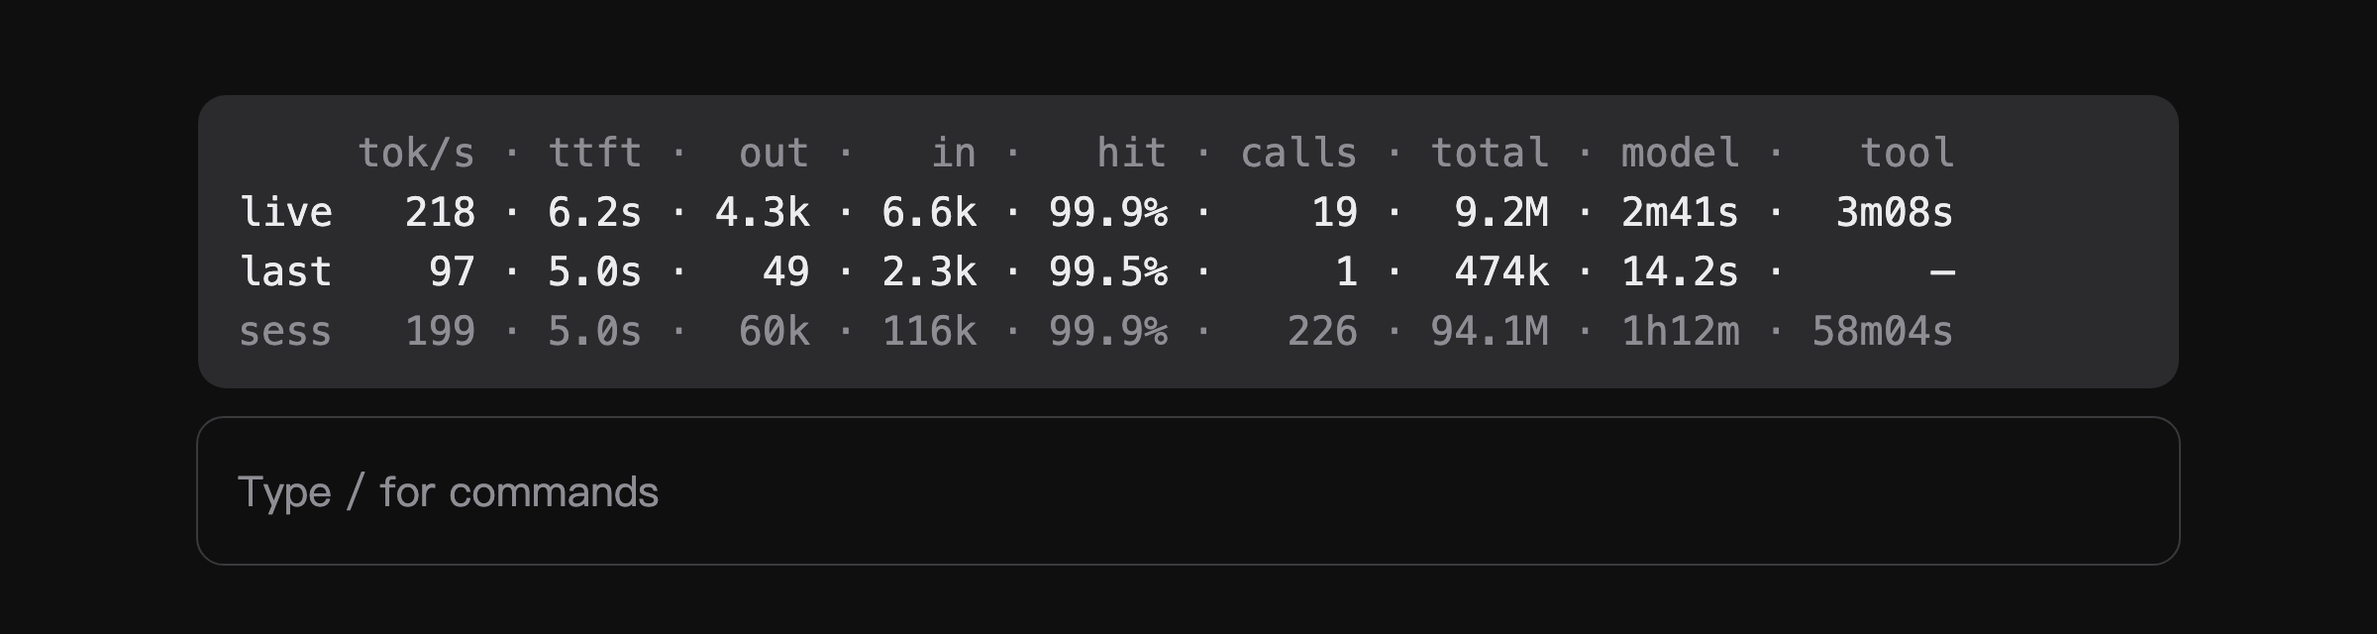
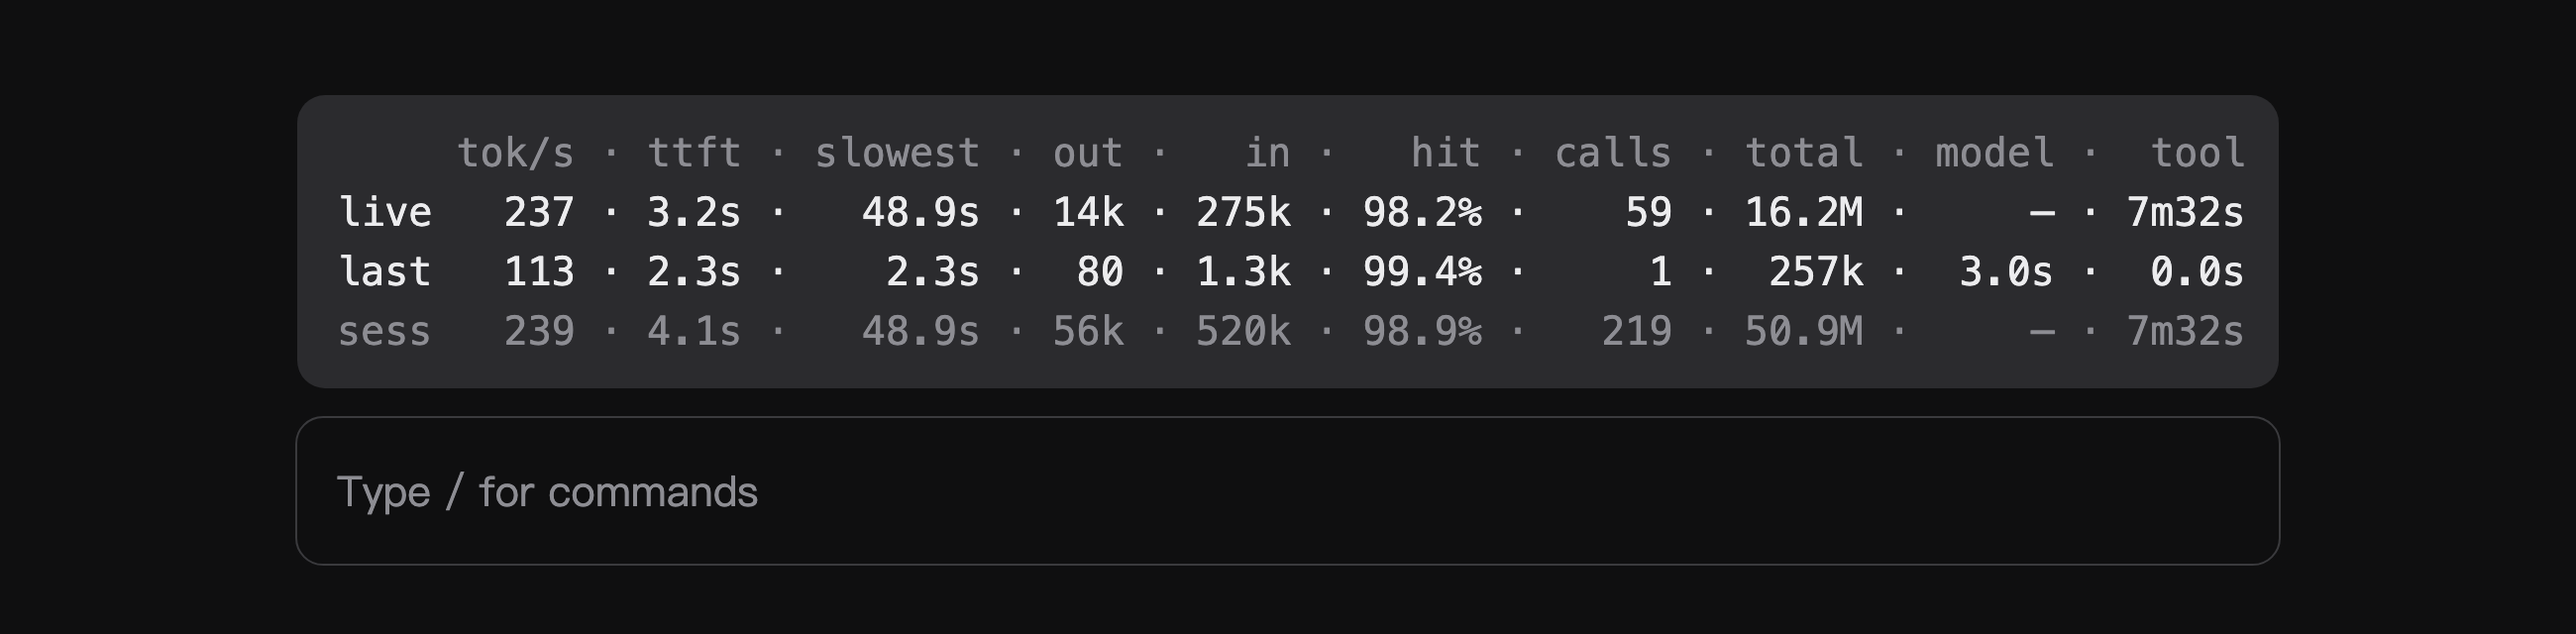
feat: ttft as the mean per call, with the slowest call beside it

diff --git a/tests/band.test.tsx b/tests/band.test.tsx
@@ -90,19 +90,19 @@ test('live is this prompt, last is the one before, sess is all', { timeoutMs: 15
   await finish($, 'p1', first)
 
   const one = await rows($)
-  expect(one[0]).toBe('tok/s · ttft · out · in · hit · calls · total · model · tool')
-  expect(one[1]).toMatch(/^live [\d.]+ · — · 400 · 1k · 80\.0% · 1 · 10k · (?:[\d.]+|—) · 0\.0s$/)
-  expect(one[2]).toBe('last — · — · — · — · — · — · — · — · —')
-  expect(one[3]).toMatch(/^sess [\d.]+ · — · 400 · 1k · 80\.0% · 1 · 10k · (?:[\d.]+s|—) · 0\.0s$/)
+  expect(one[0]).toBe('tok/s · ttft · slowest · out · in · hit · calls · total · model · tool')
+  expect(one[1]).toMatch(/^live [\d.]+ · — · — · 400 · 1k · 80\.0% · 1 · 10k · (?:[\d.]+|—) · 0\.0s$/)
+  expect(one[2]).toBe('last ' + '— · '.repeat(9) + '—')
+  expect(one[3]).toMatch(/^sess [\d.]+ · — · — · 400 · 1k · 80\.0% · 1 · 10k · (?:[\d.]+s|—) · 0\.0s$/)
 
   cost = second
   await runStep($, 'p2')
   await finish($, 'p2', second)
 
   const two = await rows($)
-  expect(two[1]).toMatch(/^live [\d.]+ · — · 200 · 500 · 80\.0% · 1 · 5\.2k · (?:[\d.]+|—) · 0\.0s$/)
-  expect(two[2]).toMatch(/^last [\d.]+ · — · 400 · 1k · 80\.0% · 1 · 10k · (?:[\d.]+|—) · 0\.0s$/)
-  expect(two[3]).toMatch(/^sess [\d.]+ · — · 600 · 1\.5k · 80\.0% · 2 · 16k · (?:[\d.]+s|—) · 0\.0s$/)
+  expect(two[1]).toMatch(/^live [\d.]+ · — · — · 200 · 500 · 80\.0% · 1 · 5\.2k · (?:[\d.]+|—) · 0\.0s$/)
+  expect(two[2]).toMatch(/^last [\d.]+ · — · — · 400 · 1k · 80\.0% · 1 · 10k · (?:[\d.]+|—) · 0\.0s$/)
+  expect(two[3]).toMatch(/^sess [\d.]+ · — · — · 600 · 1\.5k · 80\.0% · 2 · 16k · (?:[\d.]+s|—) · 0\.0s$/)
 })
 
 test('a running prompt shows what it knows and a dash for the rest', { timeoutMs: 15000 }, async ($, on) => {
@@ -138,17 +138,17 @@ test('a running prompt shows what it knows and a dash for the rest', { timeoutMs
 
   const running = await rows($)
   // Prompt counts are unknown until this call's stop: dashes, not zeros.
-  expect(running[1]).toMatch(/^live [\d.]+ · — · 2 · — · — · 0 · — · (?:[\d.]+|—) · 0\.0s$/)
-  expect(running[2]).toBe('last — · — · — · — · — · — · — · — · —')
-  expect(running[3]).toMatch(/^sess [\d.]+ · — · 2 · 0 · 0\.0% · 0 · 2 · (?:[\d.]+s|—) · 0\.0s$/)
+  expect(running[1]).toMatch(/^live [\d.]+ · — · — · 2 · — · — · 0 · — · (?:[\d.]+|—) · 0\.0s$/)
+  expect(running[2]).toBe('last ' + '— · '.repeat(9) + '—')
+  expect(running[3]).toMatch(/^sess [\d.]+ · — · — · 2 · 0 · 0\.0% · 0 · 2 · (?:[\d.]+s|—) · 0\.0s$/)
 
   release()
   while (!(await it.next()).done) void 0
   await finish($, 'p1', cost)
 
   const done = await rows($)
-  expect(done[1]).toMatch(/^live [\d.]+ · — · 100 · 900 · 0\.0% · 1 · 1k · (?:[\d.]+|—) · 0\.0s$/)
-  expect(done[3]).toMatch(/^sess [\d.]+ · — · 100 · 900 · 0\.0% · 1 · 1k · (?:[\d.]+s|—) · 0\.0s$/)
+  expect(done[1]).toMatch(/^live [\d.]+ · — · — · 100 · 900 · 0\.0% · 1 · 1k · (?:[\d.]+|—) · 0\.0s$/)
+  expect(done[3]).toMatch(/^sess [\d.]+ · — · — · 100 · 900 · 0\.0% · 1 · 1k · (?:[\d.]+s|—) · 0\.0s$/)
 })
 
 test('a prompt with nothing counted leaves the band alone', { timeoutMs: 15000 }, async ($, on) => {
@@ -174,7 +174,7 @@ test('a prompt with nothing counted leaves the band alone', { timeoutMs: 15000 }
   await finish($, 'p2', nothing)
 
   const after = await rows($)
-  expect(after[1]).toMatch(/^live [\d.]+ · — · 100 · 900 · 0\.0% · 1 · 1k · (?:[\d.]+|—) · 0\.0s$/)
+  expect(after[1]).toMatch(/^live [\d.]+ · — · — · 100 · 900 · 0\.0% · 1 · 1k · (?:[\d.]+|—) · 0\.0s$/)
   expect(after[3]).toMatch(/· 1 · 1k · /)
 })
 
@@ -218,7 +218,7 @@ test('ttft survives its prompt and shows while it streams', { timeoutMs: 15000 }
 
   const done = await rows($)
   expect(done[1]).toMatch(/^live [\d.]+ · 1\.2s/)
-  expect(done[3]).toMatch(/^sess [\d.]+ · 1\.2s/)
+  expect(done[3]).toMatch(/^sess [\d.]+ · — · 1\.2s/)
 })
 
 const off = (keys: string[]) =>
@@ -237,10 +237,10 @@ test('turn is off by default', { timeoutMs: 15000 }, async ($, on) => {
   await runStep($, 'p1')
   await finish($, 'p1', cost)
 
-  expect((await rows($))[0]).toBe('tok/s · ttft · out · in · hit · calls · total · model · tool')
+  expect((await rows($))[0]).toBe('tok/s · ttft · slowest · out · in · hit · calls · total · model · tool')
 })
 
-test('a switched-off column leaves the table', { timeoutMs: 15000, options: off(['ttft', 'hit', 'turn', 'calls', 'total', 'model', 'tool']) }, async ($, on) => {
+test('a switched-off column leaves the table', { timeoutMs: 15000, options: off(['ttft', 'ttftmax', 'hit', 'turn', 'calls', 'total', 'model', 'tool']) }, async ($, on) => {
   const clock = mock.clock(on, { now: 1000 })
   const cost = usage({
     output_tokens: 100,
@@ -256,7 +256,7 @@ test('a switched-off column leaves the table', { timeoutMs: 15000, options: off(
   expect((await rows($))[0]).toBe('tok/s · out · in')
 })
 
-test('with every column off the band draws nothing', { timeoutMs: 15000, options: off(['rate', 'ttft', 'out', 'in', 'hit', 'turn', 'calls', 'total', 'model', 'tool']) }, async ($, on) => {
+test('with every column off the band draws nothing', { timeoutMs: 15000, options: off(['rate', 'ttft', 'ttftmax', 'out', 'in', 'hit', 'turn', 'calls', 'total', 'model', 'tool']) }, async ($, on) => {
   const clock = mock.clock(on, { now: 1000 })
   const cost = usage({
     output_tokens: 100,

diff --git a/hooks/register.tsx b/hooks/register.tsx
@@ -70,8 +70,20 @@ const ZERO_TALLY: Tally = {
   cached: 0,
   written: 0,
   ttftMs: 0,
+  ttftMaxMs: 0,
   calls: 0,
   prompts: 0,
+}
+
+/**
+ * The wait before a prompt's first chunk, per call: the mean people feel and
+ * the slowest call, which one long gateway queue can pull far apart.
+ */
+const meanOf = (s: Snap | Cur) => {
+  return {
+    mean: s.ttftSamples > 0 ? s.ttftMs / s.ttftSamples : null,
+    max: s.ttftMaxMs > 0 ? s.ttftMaxMs : null,
+  }
 }
 
 /** A finished prompt as a row. */
@@ -79,7 +91,8 @@ const rowOf = (s: Snap): Row => ({
   rate: rate(s.out, s.ms),
   // A zero wait is not a measurement: the clock did not separate the request
   // from its first chunk.
-  ttftMs: s.ttftMs > 0 ? s.ttftMs : null,
+  ttftMs: meanOf(s).mean,
+  ttftMaxMs: meanOf(s).max,
   out: s.out,
   input: s.input,
   hit: pct(s.cached, s.input + s.cached + s.written),
@@ -117,13 +130,19 @@ const bandOf = (
   const cached = t.cached + (open?.cached ?? 0)
   const written = t.written + (open?.written ?? 0)
   const ttft = t.ttftMs + (open?.ttftMs ?? 0) + extra.ttftMs
+  const ttftSamples =
+    (t.ttftSamples ?? 0) + (open?.ttftSamples ?? 0) + (extra.ttftMs > 0 ? 1 : 0)
+  const ttftMax = Math.max(t.ttftMaxMs ?? 0, open?.ttftMaxMs ?? 0, extra.ttftMs)
   const calls = t.calls + (open?.calls ?? 0)
   const modelMs = t.modelMs + (open?.modelMs ?? 0) + extra.modelMs
   const toolMs = t.toolMs + (open?.toolMs ?? 0)
 
   const sess: Row = {
     rate: rate(out, ms),
-    ttftMs: ttft > 0 ? ttft / prompts : null,
+    // The session's mean is over calls, not over prompts: a prompt with 40
+    // calls says more about the wait than one with a single call.
+    ttftMs: ttftSamples > 0 ? ttft / ttftSamples : null,
+    ttftMaxMs: ttftMax > 0 ? ttftMax : null,
     out,
     input,
     hit: pct(cached, input + cached + written),
@@ -141,7 +160,12 @@ const bandOf = (
     const promptTokens = (open?.input ?? 0) + (open?.cached ?? 0) + (open?.written ?? 0)
     liveRow = {
       rate: live ? live.tokPerSec : rate((open?.out ?? 0) + extra.out, (open?.ms ?? 0) + extra.ms),
-      ttftMs: ((open?.ttftMs ?? 0) + extra.ttftMs) || null,
+      ttftMs:
+        (open?.ttftSamples ?? 0) + (extra.ttftMs > 0 ? 1 : 0) > 0
+          ? ((open?.ttftMs ?? 0) + extra.ttftMs) /
+            ((open?.ttftSamples ?? 0) + (extra.ttftMs > 0 ? 1 : 0))
+          : null,
+      ttftMaxMs: Math.max(open?.ttftMaxMs ?? 0, extra.ttftMs) || null,
       out: (open?.out ?? 0) + extra.out,
       input: counted ? (open?.input ?? 0) : null,
       hit: counted ? pct(open?.cached ?? 0, promptTokens) : null,
@@ -232,6 +256,8 @@ export const register: Register = (on, options) => {
             cached: 0,
             written: 0,
             ttftMs: 0,
+            ttftSamples: 0,
+            ttftMaxMs: 0,
             calls: 0,
             endedAt: askedAt,
           }))
@@ -283,8 +309,11 @@ export const register: Register = (on, options) => {
       input: (open?.input ?? 0) + input,
       cached: (open?.cached ?? 0) + cached,
       written: (open?.written ?? 0) + written,
-      // The wait the person noticed is the prompt's first one.
-      ttftMs: open?.ttftMs || ttftMs,
+      // Every call's wait is kept: the mean needs them all, and the slowest
+      // one is what a person notices.
+      ttftMs: (open?.ttftMs ?? 0) + (counted ? ttftMs : 0),
+      ttftSamples: (open?.ttftSamples ?? 0) + (counted && ttftMs > 0 ? 1 : 0),
+      ttftMaxMs: Math.max(open?.ttftMaxMs ?? 0, counted ? ttftMs : 0),
       calls: (open?.calls ?? 0) + (counted ? 1 : 0),
       endedAt: counted ? (await $.clock.now()) : (open?.endedAt ?? askedAt),
     }
@@ -315,6 +344,8 @@ export const register: Register = (on, options) => {
       cached: usage?.cache_read_input_tokens ?? 0,
       written: usage?.cache_creation_input_tokens ?? 0,
       ttftMs: 0,
+      ttftSamples: 0,
+      ttftMaxMs: 0,
       calls: usage ? 1 : 0,
     }
 
@@ -335,6 +366,8 @@ export const register: Register = (on, options) => {
       cached: prompt.cached,
       written: prompt.written,
       ttftMs: prompt.ttftMs,
+      ttftSamples: prompt.ttftSamples,
+      ttftMaxMs: prompt.ttftMaxMs,
       calls: prompt.calls,
       turn: t.prompts + 1,
     }
@@ -347,6 +380,7 @@ export const register: Register = (on, options) => {
       cached: t.cached + snap.cached,
       written: t.written + snap.written,
       ttftMs: t.ttftMs + snap.ttftMs,
+      ttftMaxMs: Math.max(t.ttftMaxMs, snap.ttftMaxMs),
       calls: t.calls + snap.calls,
       prompts: t.prompts + 1,
     }
@@ -374,6 +408,7 @@ export const register: Register = (on, options) => {
       [
         ['rate', 'rate', 'tok/s'],
         ['ttft', 'ttftMs', 'ttft'],
+        ['ttftmax', 'ttftMaxMs', 'slowest'],
         ['out', 'out', 'out'],
         ['in', 'input', 'in'],
         ['hit', 'hit', 'hit'],
@@ -396,7 +431,7 @@ export const register: Register = (on, options) => {
       const v = row[key]
       if (v === null) return ''
       if (key === 'rate') return fmtRate(v)
-      if (key === 'ttftMs') return `${(v / 1000).toFixed(1)}s`
+      if (key === 'ttftMs' || key === 'ttftMaxMs') return `${(v / 1000).toFixed(1)}s`
       if (key === 'modelMs' || key === 'toolMs') return secs(v)
       if (key === 'hit') return `${v.toFixed(1)}%`
       if (key === 'turn' || key === 'calls') return String(v)

diff --git a/types/index.d.ts b/types/index.d.ts
@@ -1,8 +1,10 @@
 export type Row = {
   /** Decode rate over the row's own decode windows. */
   rate: number | null
-  /** Wait before the first generated chunk. */
+  /** Mean wait before each call's first generated chunk. */
   ttftMs: number | null
+  /** The slowest of those waits. */
+  ttftMaxMs: number | null
   /** Generated tokens. */
   out: number | null
   /** Uncached prompt tokens. */
@@ -40,7 +42,10 @@ export type Tally = {
   input: number
   cached: number
   written: number
+  /** Summed waits, and how many waits were actually measured. */
   ttftMs: number
+  ttftSamples: number
+  ttftMaxMs: number
   calls: number
   prompts: number
 }
@@ -54,7 +59,10 @@ export type Snap = {
   input: number
   cached: number
   written: number
+  /** Summed waits, and how many waits were actually measured. */
   ttftMs: number
+  ttftSamples: number
+  ttftMaxMs: number
   calls: number
   turn: number
 }
@@ -69,7 +77,10 @@ export type Cur = {
   input: number
   cached: number
   written: number
+  /** Summed waits, and how many waits were actually measured. */
   ttftMs: number
+  ttftSamples: number
+  ttftMaxMs: number
   calls: number
   /** When its last call stopped, for the tool time the next one follows. */
   endedAt?: number

diff --git a/README.md b/README.md
@@ -7,10 +7,10 @@ A small table above the prompt of the Claude Code desktop app. Three rows: the p
 ![The band above the prompt](assets/band.png)
 
 ```
-     tok/s · ttft ·  out ·   in ·   hit · calls · total · model ·   tool
-live   218 · 6.2s · 4.3k · 6.6k · 99.9% ·    19 ·  9.2M · 2m41s ·  3m08s
-last    97 · 5.0s ·   49 · 2.3k · 99.5% ·     1 ·  474k · 14.2s ·      —
-sess   199 · 5.0s ·  60k · 116k · 99.9% ·   226 · 94.1M · 1h12m · 58m04s
+     tok/s · ttft · slowest · out ·   in ·   hit · calls · total · model ·  tool
+live   237 · 3.2s ·   48.9s · 14k · 275k · 98.2% ·    59 · 16.2M ·     — · 7m32s
+last   113 · 2.3s ·    2.3s ·  80 · 1.3k · 99.4% ·     1 ·  257k ·  3.0s ·  0.0s
+sess   239 · 4.1s ·   48.9s · 56k · 520k · 98.9% ·   219 · 50.9M ·     — · 7m32s
 ```
 
 Every field keeps its column, so you read one column down instead of hunting. Values are right-aligned on the widest in their column, and no row appears or disappears. The rows use the surface's monospaced face with tabular digits; in a proportional face, padded spaces line nothing up.
@@ -26,7 +26,8 @@ Every field keeps its column, so you read one column down instead of hunting. Va
 | Column | Meaning |
 | --- | --- |
 | `tok/s` | Decode rate: output tokens over the time spent generating them. Tool runs and prefill are left out. While a reply streams it is **estimated** from the characters received (see below). |
-| `ttft` | Wait before the row's first generated chunk: prefill plus whatever the gateway spent queueing it. `sess` shows the mean over its prompts; a wait too short for the clock to separate reads `—`. |
+| `ttft` | **Mean** wait per model call before its first generated chunk: prefill plus whatever the gateway spent queueing it. Divided by the calls that were actually timed, not by every call. |
+| `slowest` | The longest of those waits. One call stuck behind a gateway queue moves this far from `ttft`, which the mean hides; when the two match, the row was one call. |
 | `out` | Generated tokens. |
 | `in` | Prompt tokens that were **not** served from the prompt cache. |
 | `hit` | Share of the prompt tokens that came from the cache: `cache read ÷ (uncached input + cache read + cache write)`, over the row's calls. Floored to one decimal, so `100.0%` means every prompt token was a read and 99.96% reads `99.9%`. |
@@ -92,6 +93,7 @@ The layout:
 - A field wider than its column (a `10.5M` total against a `5.0M` session) pushes that column one character right for the rest of the session.
 - Before the session's first prompt the band draws nothing, and `last` stays `—` until a second prompt has finished.
 - Nothing changes during prefill or while a gateway queues the call: the stream has no chunk to count then, so the live row keeps its last state until the first token arrives.
+- `ttft` is measured at the engine's hook, not at the socket: it starts when the request reaches this machine's side of the loop and ends at the first chunk, so it includes queueing and prefill but not the model's own view of when it started reading.
 - `model` and `tool` are wall time, not billed time: a gateway that queues the call for 30s counts 30s. The session's `model` starts when the mod loads, so a session resumed from disk shows time it did not cause.
 - No cost figure: it needs a price table per model, and this one is used behind several gateways.
 
